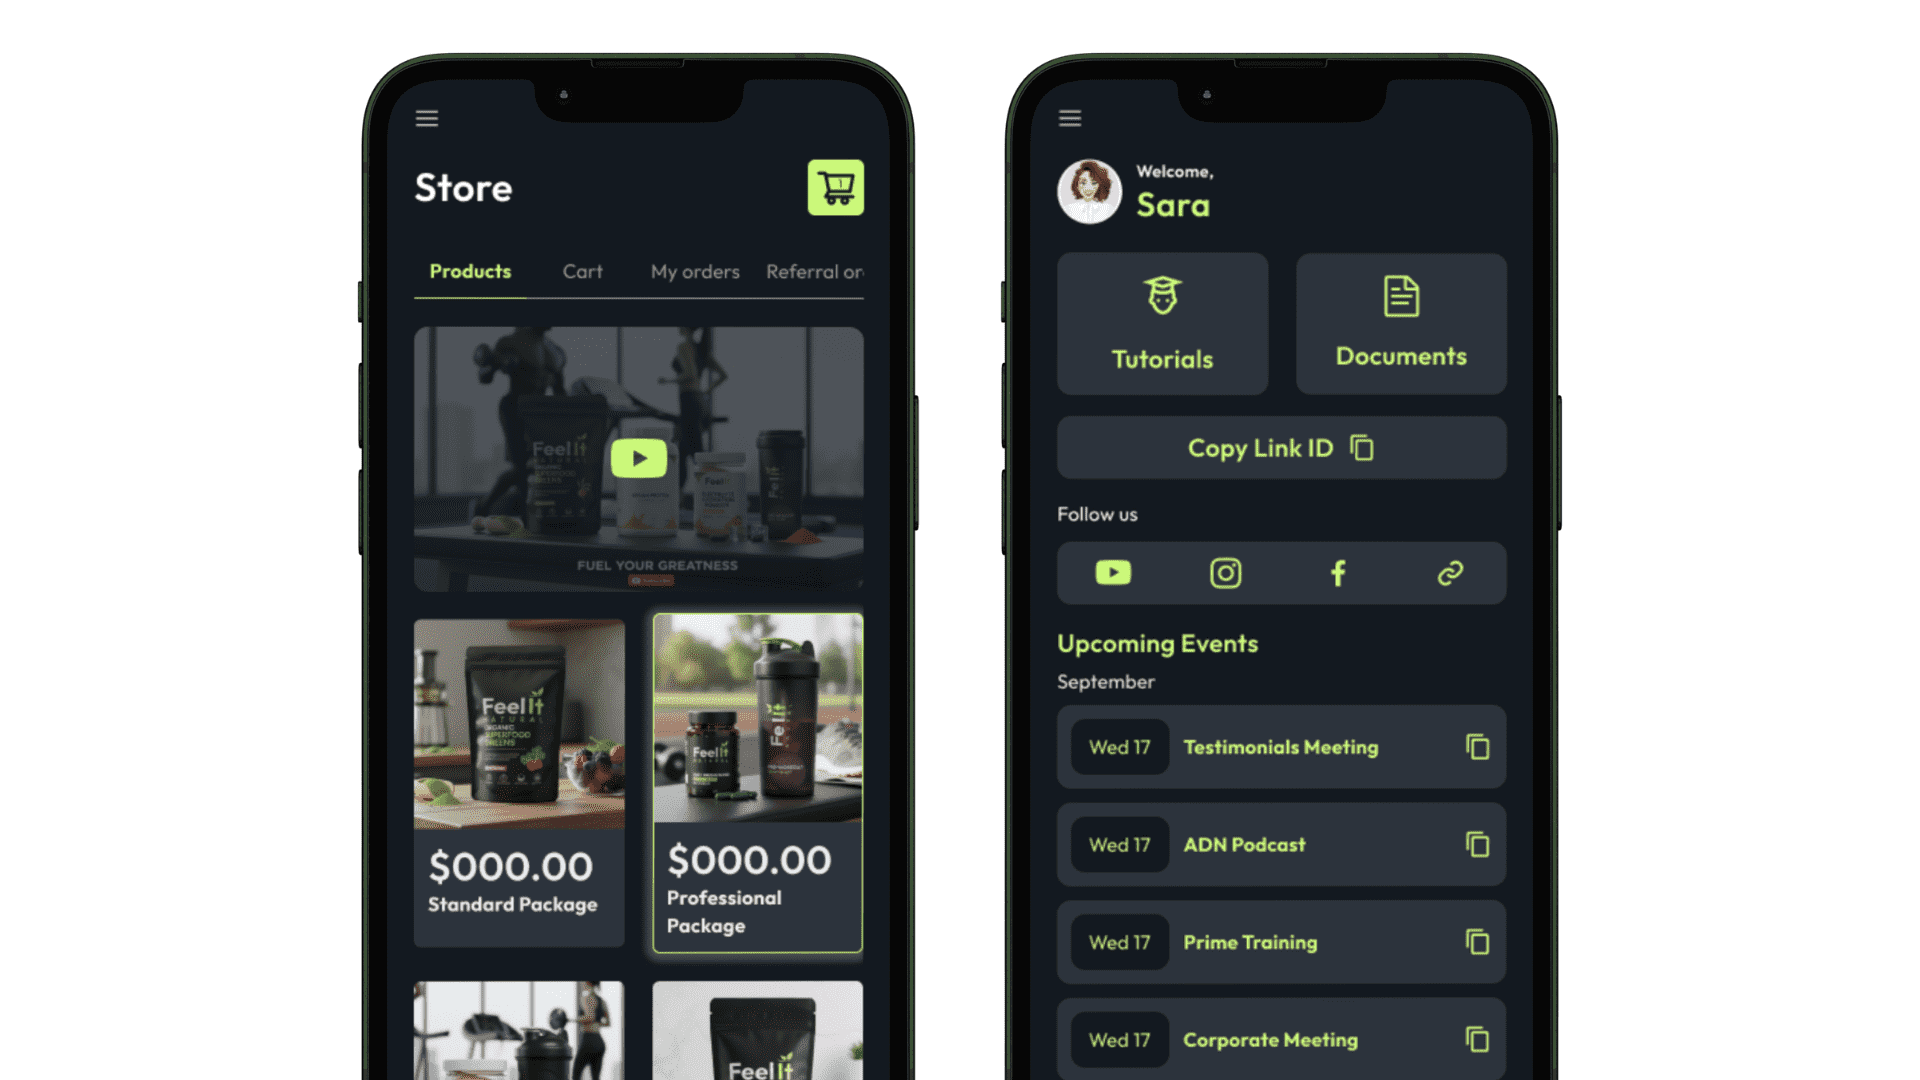
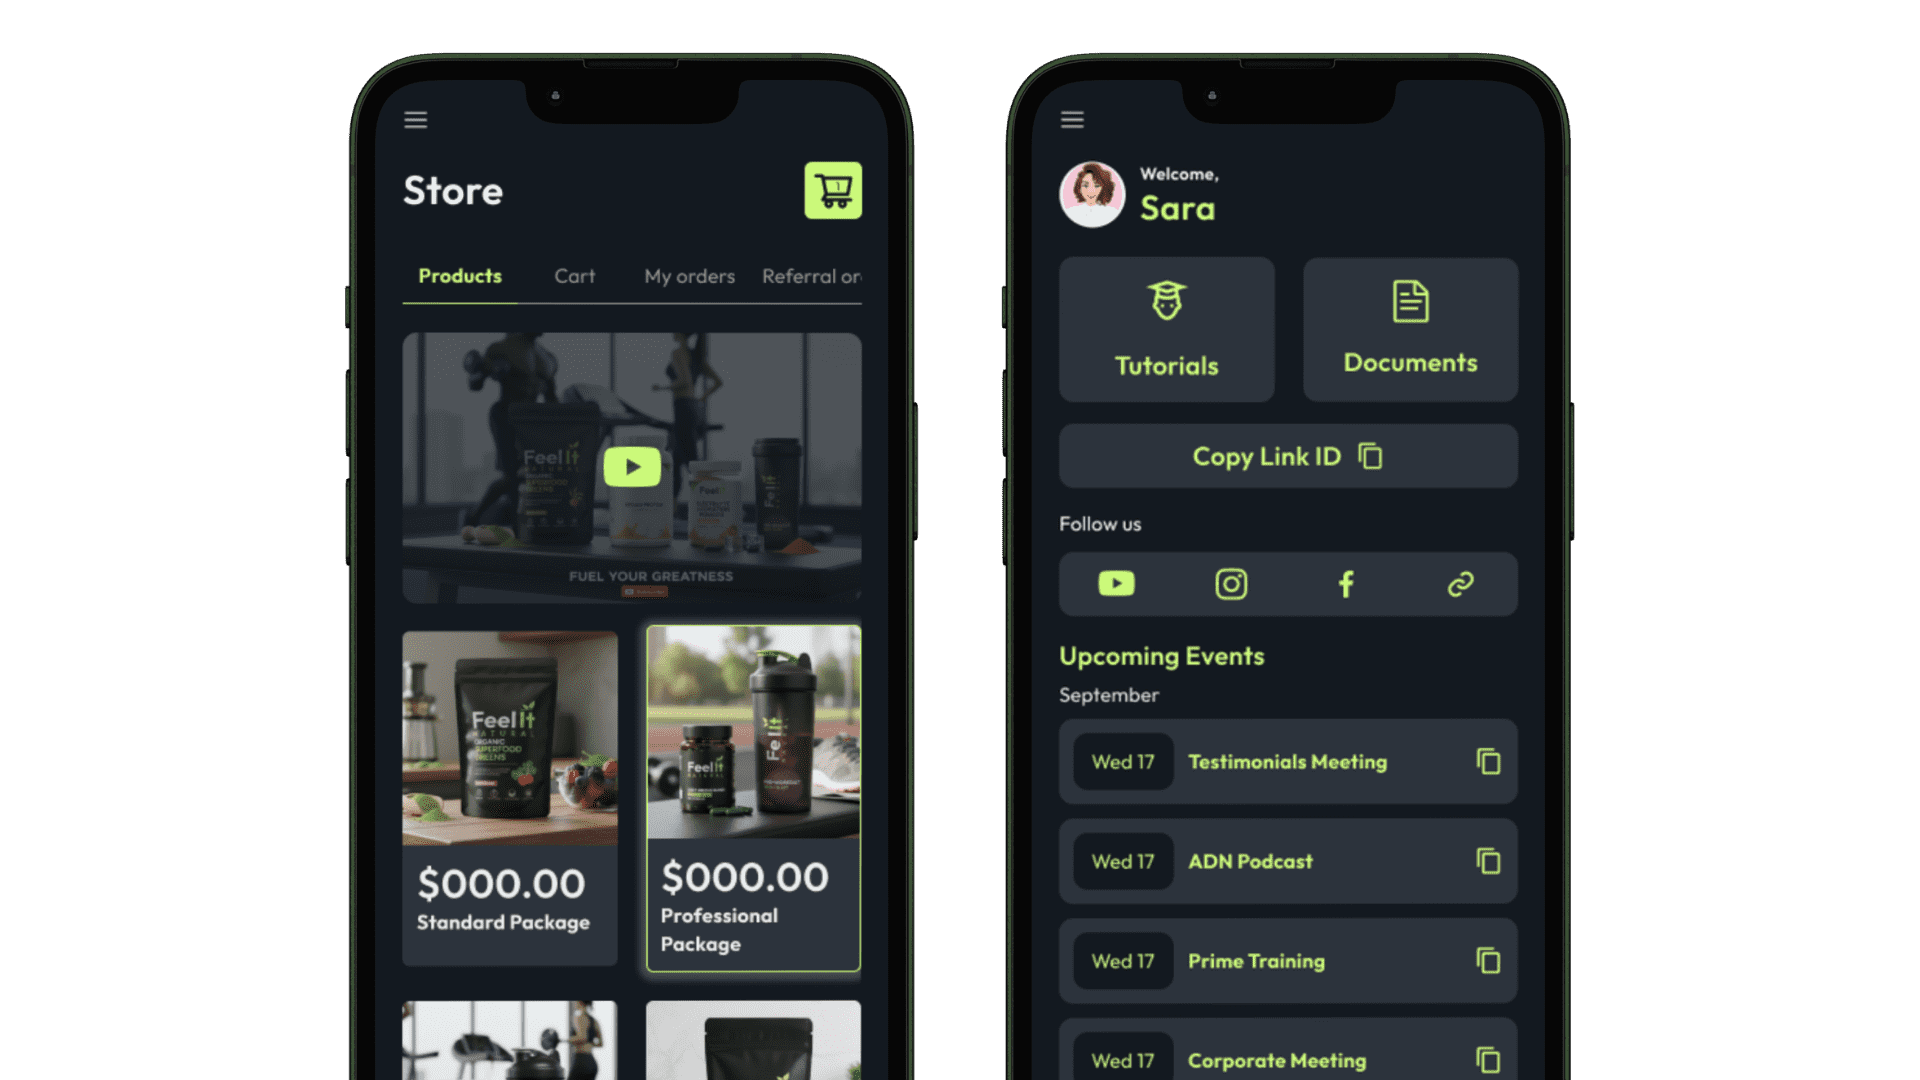
Inicio: recuadro Insight en morado + nuevas imagenes de los 3 proyectos
- El recuadro "Insight principal" de la tarjeta flagship pasa de rosa
  (#F7EDEE/#8E4867) a morado (#EFEAF9/#4A2E86), acorde a la paleta del
  proyecto de remesas.
- Reemplaza las 3 imagenes de la seccion "Proyectos seleccionados":
  Diseñar confianza (Kobo), SANAVI y Logistica Adaptable, con las
  capturas nuevas que mando Shairi.

diff --git a/index.html b/index.html
@@ -103,8 +103,8 @@ html,body{margin:0;padding:0}
           </div>
           <h2 style="font-family:'Inter Tight',sans-serif;font-weight:700;font-size:clamp(30px,3.6vw,50px);line-height:1.05;letter-spacing:-.03em;margin:0;text-wrap:pretty">Diseñar confianza para enviar dinero a casa</h2>
           <p style="font-size:clamp(17px,1.2vw,19px);line-height:1.62;color:#525252;margin:20px 0 0;max-width:600px;text-wrap:pretty">Un proyecto personal de remesas USA → México donde las entrevistas cambiaron el problema: de “hacer el envío más fácil” a diseñar señales de control, transparencia y tranquilidad a lo largo del journey.</p>
-          <div style="background:#F7EDEE;border-radius:12px;padding:20px 24px;margin-top:26px;max-width:600px">
-            <div style="font-size:12px;font-weight:600;letter-spacing:.12em;text-transform:uppercase;color:#8E4867;margin-bottom:10px">Insight principal</div>
+          <div style="background:#EFEAF9;border-radius:12px;padding:20px 24px;margin-top:26px;max-width:600px">
+            <div style="font-size:12px;font-weight:600;letter-spacing:.12em;text-transform:uppercase;color:#4A2E86;margin-bottom:10px">Insight principal</div>
             <div style="font-family:'Inter Tight',sans-serif;font-weight:600;font-size:clamp(18px,1.5vw,22px);line-height:1.35;letter-spacing:-.02em;color:#171717;text-wrap:pretty">La velocidad no era la única barrera. La confianza se rompía en distintos momentos.</div>
           </div>
           <div style="display:grid;grid-template-columns:repeat(auto-fit,minmax(140px,1fr));gap:14px 24px;margin-top:26px;padding-top:16px;border-top:1px solid #D9D9D9;max-width:600px">
